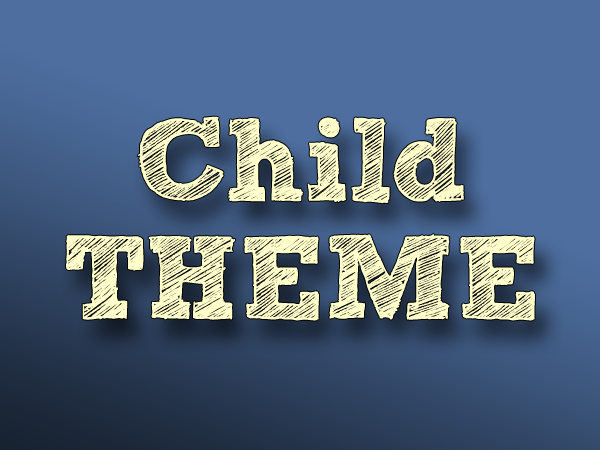
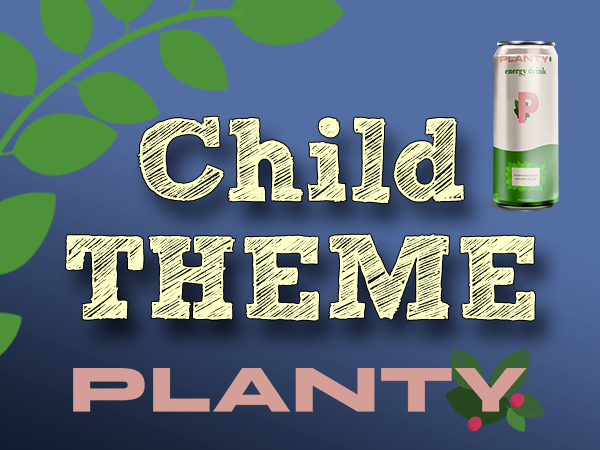
Update header with responsive

diff --git a/wp-content/themes/Planty/style.css b/wp-content/themes/Planty/style.css
@@ -12,3 +12,122 @@
  /* == Add your own styles below this line ==
 --------------------------------------------*/
 
+body {
+  font-family: 'Syne', sans-serif;
+  font-size: 16px;
+}
+
+header {
+    display: flex;
+    justify-content: space-between;
+    align-items: center;
+    background-color:#FFFFFF;
+	width:1440px;
+	height : 80px;
+	margin: 0 auto;
+}
+.custom-logo-link {
+	margin-left :50px;
+}
+
+.menu a {
+    padding: 10px 30px; /* Ajout de padding autour des liens pour augmenter la surface cliquable */
+    text-decoration: none;
+    color: #333;
+    font-weight: bold;  
+}
+
+.admin-link a {
+	margin-right:30px;
+}
+
+.menu-menu-1-container ul {
+    display: flex;
+    list-style-type: none; /* Supprime les puces */
+    padding: 0; /* Enlève le padding par défaut des ul */
+    margin: 0; /* Enlève le margin par défaut des ul */
+    align-items: center; 
+}
+	
+
+.menu-order a {
+    background-color: #DC9F96; /* Couleur de fond rose pâle */
+    color: #ffffff;           
+    padding: 32px 61px;       
+    display: flex;
+    align-items: center;
+    justify-content: center;
+    text-align: center;
+    font-weight: bold;
+} 
+
+
+.menu-order a:hover, .menu-order a:focus {
+    background-color: #C02E44; /* Couleur de fond différente au survol et au focus */
+}
+
+/* Media Queries */
+/* Tablettes */
+@media (max-width : 1440px) {
+	
+	header {
+		width:100%;
+	}
+}
+	
+
+
+/* Petites tablettes et grands téléphones */
+@media (max-width: 1024px) {
+    header {
+        flex-direction: column;
+        height: auto;
+        padding: 20px;
+    }
+    .custom-logo-link {
+        margin-left: 0;
+		
+    }
+	.custom-logo {
+		margin-bottom: 50px;
+	}
+    .menu-menu-1-container ul {
+		
+        width: 100%;
+        flex-direction: column;
+        align-items: center;
+    }
+	
+	.menu-menu-1-container ul li {
+		margin-bottom :20px;
+		
+	}
+    .menu a {
+        width: 100%;
+        text-align: center;
+    }
+    .menu-order a {
+        padding: 15px 30px;
+        width: 100%;
+    }
+	
+	.admin-link a {
+	margin-right:0;
+}
+}
+
+/* Petits téléphones */
+@media (max-width: 480px) {
+   
+    header {
+        padding: 10px;
+    }
+    .menu a {
+        
+        font-size: 14px;
+    }
+    .menu-order a {
+       
+        width: 100%;
+    }
+}

diff --git a/wp-content/themes/Planty/functions.php b/wp-content/themes/Planty/functions.php
@@ -1,6 +1,6 @@
 <?php /*
 
-  This file is part of a child theme called Planty.
+  This file is part of a child theme called Rubik_blank.
   Functions in this file will be loaded before the parent theme's functions.
   For more information, please read
   https://developer.wordpress.org/themes/advanced-topics/child-themes/
@@ -9,22 +9,58 @@
 
 // this code loads the parent's stylesheet (leave it in place unless you know what you're doing)
 
-function your_theme_enqueue_styles() {
+function your_theme_enqueue_styles()
+{
 
     $parent_style = 'parent-style';
 
-    wp_enqueue_style( $parent_style, 
-      get_template_directory_uri() . '/style.css'); 
+    wp_enqueue_style($parent_style,
+        get_template_directory_uri() . '/style.css');
 
-    wp_enqueue_style( 'child-style', 
-      get_stylesheet_directory_uri() . '/style.css', 
-      array($parent_style), 
-      wp_get_theme()->get('Version') 
+    wp_enqueue_style('child-style',
+        get_stylesheet_directory_uri() . '/style.css',
+        array($parent_style),
+        wp_get_theme()->get('Version')
     );
 }
 
 add_action('wp_enqueue_scripts', 'your_theme_enqueue_styles');
 
 /*  Add your own functions below this line.
-    ======================================== */ 
+    ======================================== */
+// ajoute un lien admin dans le menu navigation à la deuxième place
+function add_admin_link_to_menu($items, $args) {
+    if (is_user_logged_in() && $args->theme_location == 'main-menu') {
+        // Créer le lien admin
+        $admin_link = '<li class="menu-item admin-link"><a href="' . admin_url() . '">Admin</a></li>';
 
+        // Convertir la chaîne d'éléments de menu en tableau
+        $menu_items = explode('</li>', $items);
+
+        // Déterminer la position pour insérer le lien Admin
+        // Puisque 3 éléments et  le lien au milieu, insérez après le premier élément
+        $position = 1;  // Insérer après le premier élément du menu
+
+        // Insérer le lien admin à la position souhaitée
+        array_splice($menu_items, $position, 0, $admin_link);
+
+        // Reconstruire la chaîne d'éléments de menu
+        $items = implode('</li>', $menu_items);
+    }
+    return $items . '</li>'; // Ajouter </li> pour fermer le dernier élément correctement
+}
+
+add_filter('wp_nav_menu_items', 'add_admin_link_to_menu', 10, 2);
+
+// ajoute un logo//
+function rubik_setup() {
+    add_theme_support( 'custom-logo', array(
+        'height'      => 100,
+        'width'       => 400,
+        'flex-height' => true,
+        'flex-width'  => true,
+        'header-text' => array( 'site-title', 'site-description' ),
+    ));
+}
+
+add_action( 'after_setup_theme', 'rubik_setup' );

diff --git a/wp-content/themes/Planty/header.php b/wp-content/themes/Planty/header.php
@@ -1,0 +1,36 @@
+<!DOCTYPE html>
+<html <?php language_attributes(); ?> <?php blankslate_schema_type(); ?>>
+<head>
+    <meta charset="<?php bloginfo('charset'); ?>">
+    <meta name="viewport" content="width=device-width">
+    <link href="https://fonts.googleapis.com/css2?family=Syne:wght@400;700&display=swap" rel="stylesheet">
+
+    <?php wp_head(); ?>
+</head>
+<body <?php body_class(); ?>>
+<?php wp_body_open(); ?>
+<div id="wrapper" class="hfeed">
+    <header id="header" role="banner">
+        <div id="branding">
+            <div id="site-title" itemprop="publisher" itemscope itemtype="https://schema.org/Organization">
+                <?php
+                if (is_front_page() || is_home() || is_front_page() && is_home()) {
+                    echo '<h1>';
+                }
+                echo the_custom_logo();
+                if (is_front_page() || is_home() || is_front_page() && is_home()) {
+                    echo '</h1>';
+                }
+                ?>
+            </div>
+            <div id="site-description"<?php if (!is_single()) {
+                echo ' itemprop="description"';
+            } ?>><?php bloginfo('description'); ?></div>
+        </div>
+        <nav id="menu" role="navigation" itemscope itemtype="https://schema.org/SiteNavigationElement">
+            <?php wp_nav_menu(array('theme_location' => 'main-menu', 'link_before' => '<span itemprop="name">', 'link_after' => '</span>')); ?>
+
+        </nav>
+    </header>
+    <div id="container">
+        <main id="content" role="main">

diff --git a/wp-content/themes/Planty/page.php b/wp-content/themes/Planty/page.php
@@ -1,0 +1,16 @@
+<?php get_header(); ?>
+<?php if ( have_posts() ) : while ( have_posts() ) : the_post(); ?>
+<article id="post-<?php the_ID(); ?>" <?php post_class(); ?>>
+<!--masque le header qui comporte le titre de la page et le bouton modifier ( edit post-link)-->
+<!-- <header class="header">-->
+<!--<h1 class="entry-title" itemprop="name">--><?php //the_title(); ?><!--</h1> --><?php //edit_post_link(); ?>
+<!--</header>-->
+<div class="entry-content" itemprop="mainContentOfPage">
+<?php if ( has_post_thumbnail() ) { the_post_thumbnail( 'full', array( 'itemprop' => 'image' ) ); } ?>
+<?php the_content(); ?>
+<div class="entry-links"><?php wp_link_pages(); ?></div>
+</div>
+</article>
+<?php if ( comments_open() && !post_password_required() ) { comments_template( '', true ); } ?>
+<?php endwhile; endif; ?>
+<?php get_footer(); ?>
